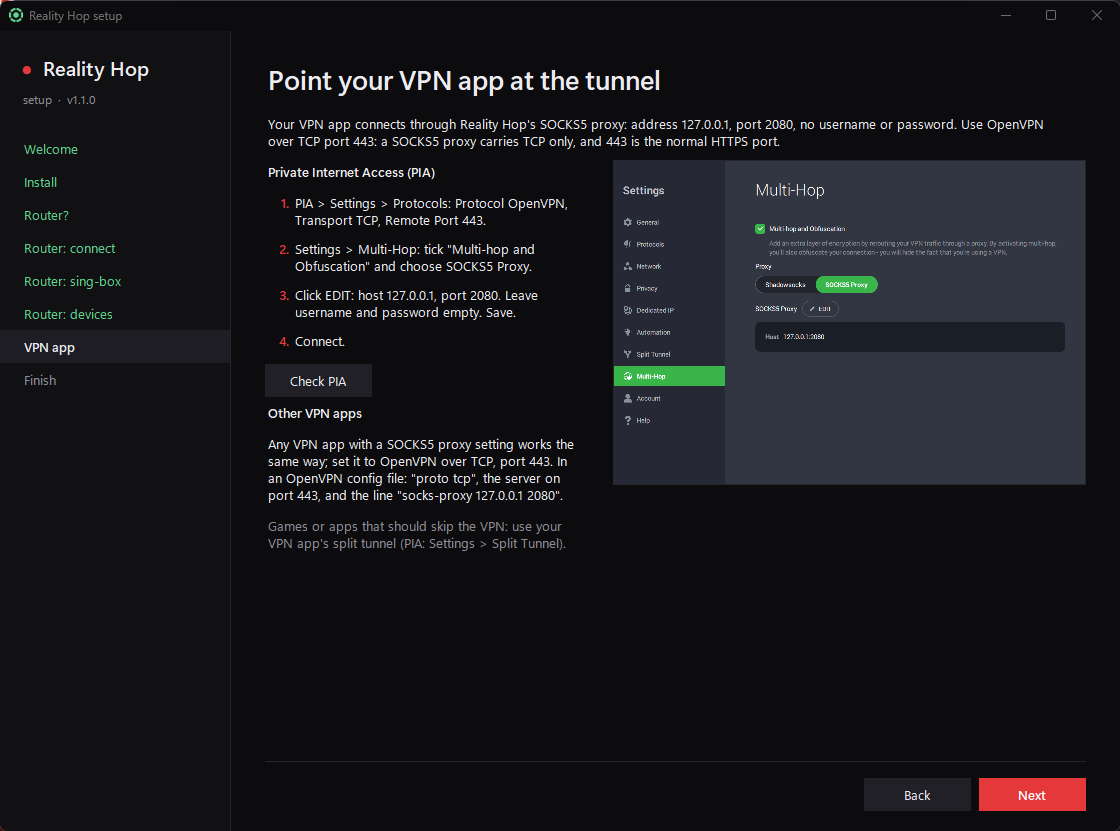
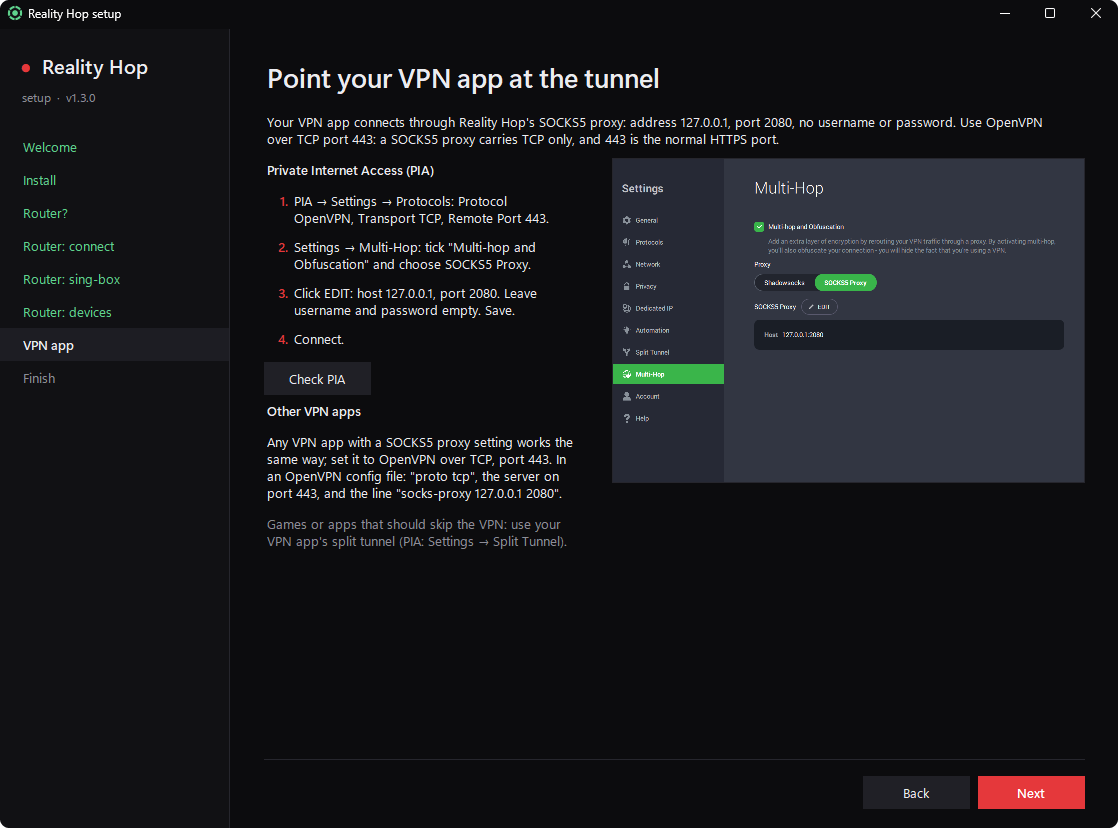
1.3.0: router network check, Change router, update window at launch, hover help, Test PC tunnel, new screenshots

diff --git a/src/engine.py b/src/engine.py
@@ -309,10 +309,59 @@ def ssh_base():
 
 
 def ssh(cmd, stdin=None, timeout=240):
+    ok, why = router_here()
+    if not ok:
+        raise RuntimeError(why)
     r = run(ssh_base() + [cmd], stdin, timeout=timeout)
     if r.returncode == 255:
+        if 'IDENTIFICATION HAS CHANGED' in (r.stderr or ''):
+            raise RuntimeError(f"a different router answers at {settings_load()['router_host']}, not the one Reality Hop "
+                               'was set up with; nothing was sent. On a new or reset router, use Settings → Change router.')
         raise RuntimeError('router unreachable over ssh')
+    if _here[2] and not this_pc().get('router_mac'):
+        set_this_pc(router_mac=_here[2])   # learned only after the pinned host key and our key let us in
     return r.stdout
+
+
+_here = [0, None, '']
+
+
+def router_mac(host):
+    """The MAC address this PC sees for the router's address: None when port 22 does not answer, '' when it answers but
+    is not on this PC's own network (no ARP entry)."""
+    try:
+        socket.create_connection((host, 22), timeout=2).close()
+    except OSError:
+        return None
+    m = re.search(r'\b([0-9a-f]{2}(?:-[0-9a-f]{2}){5})\b', run(['arp', '-a', host], timeout=10).stdout.lower())
+    return m.group(1) if m else ''
+
+
+def router_here():
+    """(True, '') when this PC is on the network of its own router: the router's address answers, with the MAC address
+    it had when it was first reached. Checked before every SSH command (kept 30 seconds), so nothing goes to another
+    network's router, and a PC away from home does not wait for timeouts. The pinned SSH host key checks it again."""
+    if time.time() - _here[0] < 30:
+        return _here[1]
+    host = settings_load()['router_host']; mac = router_mac(host); saved = this_pc().get('router_mac')
+    if mac is None:
+        res = (False, f"not on your router's network: {host} does not answer; router steps skipped")
+    elif mac and saved and mac != saved:
+        res = (False, f'a different router answers at {host}, not the one Reality Hop was set up with; router steps '
+                      'skipped. On a new or reset router, use Settings → Change router.')
+    else:
+        res = (True, '')
+    _here[:] = [time.time(), res, mac or '']
+    return res
+
+
+def router_forget():
+    """Setting up a router (again): forget the old router's MAC address and SSH host key, so a new router is accepted."""
+    set_this_pc(router_mac=''); _here[0] = 0
+    try:
+        run([ssh_exe('ssh-keygen'), '-R', settings_load()['router_host'], '-f', os.path.join(DATA, 'known_hosts')], timeout=20)
+    except Exception:
+        pass   # no known_hosts yet
 
 
 _feed = [0, None]

diff --git a/src/install.py b/src/install.py
@@ -203,7 +203,21 @@ def check_update():
     if not N.FROZEN:
         return None
     rel = latest()
-    return rel if rel and vtuple(rel['ver']) > vtuple(N.VERSION) else None
+    if not rel or vtuple(rel['ver']) <= vtuple(N.VERSION):
+        return None
+    try:
+        rel['changes'] = changes(N.VERSION)
+    except Exception:
+        rel['changes'] = [(rel['ver'], '', rel['notes'])]
+    return rel
+
+
+def changes(since):
+    """[(version, date, notes)] of every release newer than `since`, newest first, so a skipped version is not missed."""
+    req = urllib.request.Request(f'https://api.github.com/repos/{N.REPO}/releases?per_page=30', headers={'Accept': 'application/vnd.github+json'})
+    out = [(r['tag_name'].lstrip('v'), (r.get('published_at') or '')[:10], (r.get('body') or '').split('\n---')[0].strip())
+           for r in json.loads(N.gh_get(req, 20)) if not r.get('draft') and not r.get('prerelease')]
+    return sorted((c for c in out if vtuple(c[0]) > vtuple(since)), key=lambda c: vtuple(c[0]), reverse=True)
 
 
 def apply_update(rel):

diff --git a/src/version.py b/src/version.py
@@ -1,1 +1,1 @@
-VERSION = '1.2.0'
+VERSION = '1.3.0'

diff --git a/CHANGELOG.md b/CHANGELOG.md
@@ -3,6 +3,24 @@
 Each release explains what changed and why it matters to you. Installed copies update themselves (Settings → Install
 Reality Hop updates automatically). To update by hand, download `RealityHop.exe` from the release and run it.
 
+## 1.3.0 (2026-10-29)
+
+**Why update:** router steps only run on your own router's network, updates show what changed in a clear window, and
+every button explains itself.
+
+- **Your router only.** Before every router step (Push, Test on router, Check now, the background repairs), Reality Hop
+  checks that this PC is on its own router's network: the router's address must answer, with the hardware address it
+  had when it was set up. Away from home the router steps are skipped at once, instead of waiting for timeouts, and
+  nothing is sent to another network's router. The PC tunnel keeps working.
+- **Change router** in Settings: for a new or reset router. It forgets the old one and opens the router steps of the
+  setup.
+- **Update window.** A new release opens a window at launch with what changed in every version since yours, and
+  **Install update** or **Later**. The Update button stays at the top.
+- **Hover help.** Every button shows what it does when you hold the mouse over it.
+- **Test PC tunnel** in Candidates: after you put nodes in the slots and restart, test the PC tunnel without going
+  back to the main window.
+- Menu paths in the app use arrows (Settings → Multi-Hop).
+
 ## 1.2.0 (2026-10-28)
 
 **Why update:** Reality Hop is now built with the newest Python and build tools, and every release is checked for that

diff --git a/README.md b/README.md
@@ -107,7 +107,7 @@ OpenVPN config file, use `proto tcp`, the server's port `443`, and add `socks-pr
 | **Check&nbsp;now** | Tests every node through the running tunnel. |
 | **Restart&nbsp;tunnel** | Restarts the tunnel on the current nodes (about 2 seconds). |
 | **Stop&nbsp;/&nbsp;Start** | Turns everything off, including the start at boot, for when you are away. Turn the VPN app's proxy off while stopped. |
-| Nodes&nbsp;→&nbsp;**Show&nbsp;candidates** | Lists nodes from the public list; test them and put any of them in a slot. |
+| Nodes&nbsp;→&nbsp;**Show&nbsp;candidates** | Lists nodes from the public list; test them and put any of them in a slot, then restart and test the PC tunnel from the same window. |
 | Nodes&nbsp;→&nbsp;**Rescue** | Use when every node is dead. Tests the vault of known-good nodes and puts the best 6 in. |
 | Help&nbsp;→&nbsp;**Report&nbsp;a&nbsp;problem** | Makes a redacted report of the logs and opens a GitHub issue for you to attach it to. |
 | Files&nbsp;(optional) | **Open backend folder** (`PC`, `Router`, `logs`, `anonymous-logs`) and **Open logs folder**. |

diff --git a/docs/troubleshooting.md b/docs/troubleshooting.md
@@ -55,6 +55,16 @@ check that the PC has internet at all. Then try **Show candidates → Test 40 fa
   router's keys.
 - Check the router's log: `logread | grep sing-box` over SSH.
 
+## "not on your router's network" or "a different router answers"
+
+Before every router step, Reality Hop checks that this PC is on the network of its own router: the router's address
+must answer, with the same hardware (MAC) address it had when it was set up. Away from home, the router steps are
+skipped at once and nothing is sent to another network's router. The PC tunnel keeps working. Back home, press
+**Test on router**; if this PC changed nodes meanwhile, the router tile asks you to push them.
+
+With a new or reset router, press Settings → **Change router**. It forgets the old router and opens the router steps of the
+setup, where you connect the new one.
+
 ## A device on the router is not tunnelled
 
 Its address probably changed. Reserve a fixed address for it (GL.iNet web panel → CLIENTS, turn on the Reserved IP

diff --git a/docs/router-setup.md b/docs/router-setup.md
@@ -79,6 +79,11 @@ looked (another PC pushed, or the router repaired itself). If so, it takes the r
 own configs instead of pushing its older set over them. A push replaces the 6 nodes on the router; nothing is added
 twice. Set the device list once on any PC, and include every device the router should tunnel.
 
+**A new or reset router?** Settings → **Change router** forgets the old one and opens these router steps again.
+
+Before every router step, Reality Hop checks that this PC is on its own router's network, so nothing is sent to another
+network's router; away from home the router steps are skipped at once.
+
 ## How the router side stays healthy
 
 - Your PC checks the router tunnel with **Test on router** and pushes new nodes whenever it replaces some.
